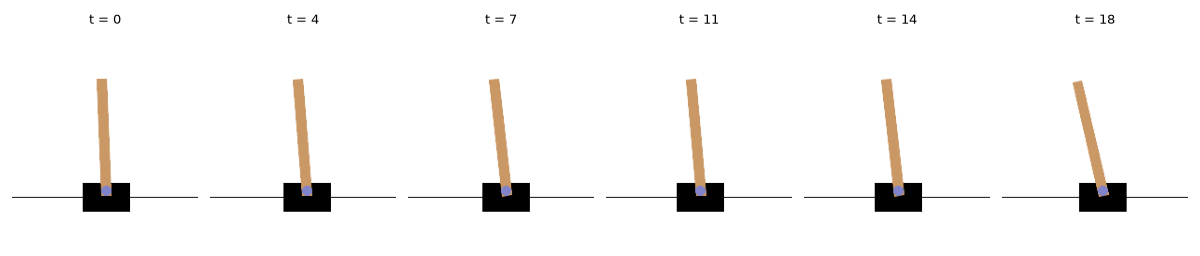
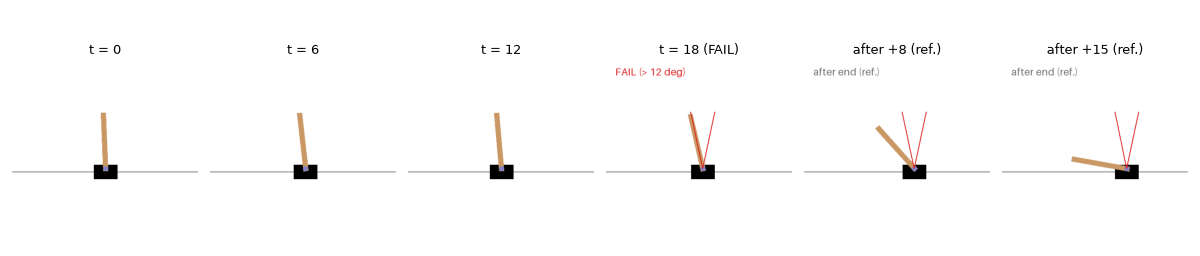
[claude] 第0章の失敗の絵に、判定の瞬間の印と終了後の参考の絵を追加

diff --git a/chapters/ch00_setup_check/README.md b/chapters/ch00_setup_check/README.md
@@ -2,8 +2,10 @@
 
 [第0章の Notebook](ch00_setup_check.ipynb) の4節で作った GIF です。著者が確かめたところ、GitHub の private リポジトリでは Notebook の中の GIF が表示されなかったため（2026-10-01）、このページで見られるようにしています。
 
-台車を、毎回でたらめに左右へ押した様子です（seed = 0）。棒は少しずつ傾き、18 回動かしたところで倒れてエピソードが終わります。GIF は、実際の CartPole の時間（1回の行動あたり 0.02 秒）の5倍ゆっくり再生しています。
+台車を、毎回でたらめに左右へ押した様子です（seed = 0）。棒は少しずつ左へ傾き、18 回動かしたところで、傾きが ±12 度（赤い線）を超えて「倒れた」と判定され、エピソードが終わります（`FAIL` と表示して1秒止めます）。
 
-![でたらめに動かした CartPole。棒が傾いていき、18 回で倒れる](figures/ch00_random_cartpole.gif)
+そのあとの、棒が大きく倒れていく様子（`after end (ref.)`）は、失敗が一目で分かるように、判定で終わったあとも絵を作るためだけに物理の計算を続けた参考の絵です。本来のエピソードには含まれません。GIF は、実際の CartPole の時間（1回の行動あたり 0.02 秒）の5倍ゆっくり再生しています。
 
-CartPole の仕様（1回の行動あたり 0.02 秒など）の出典は、[第0章の Notebook](ch00_setup_check.ipynb) の末尾の「出典」の節にあります。絵は、Gymnasium（MIT License）の CartPole の描画処理が出力したものです。ライセンスは、リポジトリの [LICENSE.md](../../LICENSE.md) を見てください。
+![でたらめに動かした CartPole。棒が左へ傾いていき、18 回で 12 度を超えて FAIL と判定される。そのあと参考として、棒が 80 度まで倒れる](figures/ch00_random_cartpole.gif)
+
+CartPole の仕様（1回の行動あたり 0.02 秒など）の出典は、[第0章の Notebook](ch00_setup_check.ipynb) の末尾の「出典」の節にあります。絵は、Gymnasium（MIT License）の CartPole の描画処理が出力したものに、著者が Pillow で線と文字を書き込んだものです。ライセンスは、リポジトリの [LICENSE.md](../../LICENSE.md) を見てください。

diff --git a/LICENSE.md b/LICENSE.md
@@ -47,6 +47,7 @@ SOFTWARE.
 | NumPy | BSD-3-Clause ほか（複数のライセンスの組み合わせ） | 数値計算 |
 | matplotlib | Python Software Foundation License に基づく matplotlib のライセンス | グラフの作成 |
 | imageio | BSD-2-Clause | GIF の作成 |
+| Pillow | MIT-CMU License | 絵への線と文字の書き込み |
 | TensorBoard | Apache License 2.0 | 学習の記録の書き出しと、グラフでの表示 |
 | IPython | BSD-3-Clause | Notebook の中での画像の表示（`IPython.display.Image`） |
 | pygame-ce | LGPL v2.1 | Gymnasium の環境の描画 |
